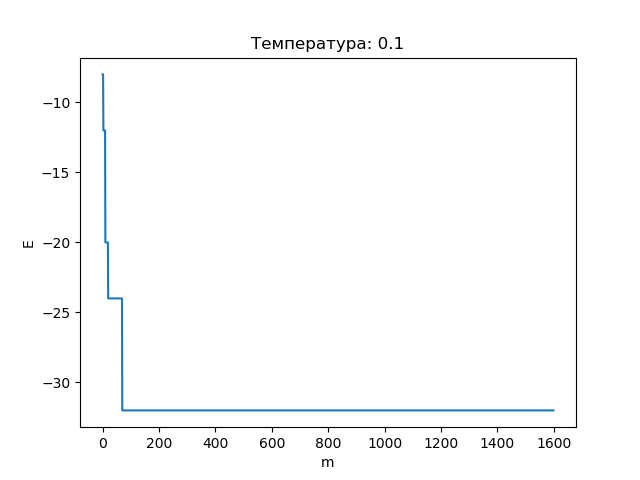
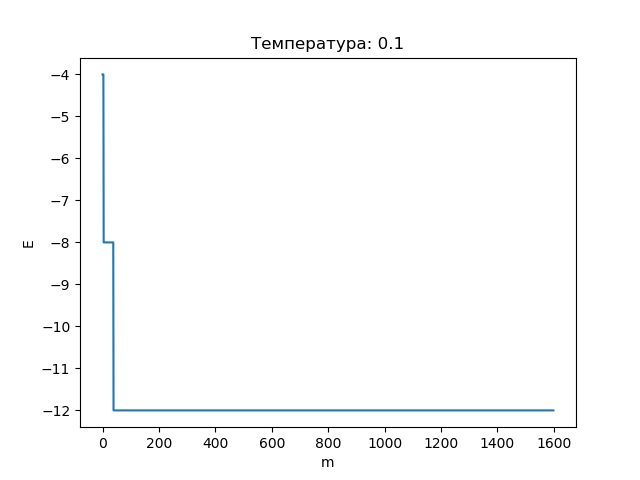
Try lab3 model

diff --git a/model/lab3/lab3.py b/model/lab3/lab3.py
@@ -1,0 +1,168 @@
+import random
+import statistics
+import math
+import matplotlib.pyplot as plt
+import os
+
+MATRIX_LENGTH = 4  # L - количество спинов вдоль одной сторо-ны квадрата
+J = -1  # J - тип взаимодействия, определяющий основные характеристики системы.
+SWAP_COUNT = 10000000 * MATRIX_LENGTH * MATRIX_LENGTH  # m - выбор спина m раз
+T = 0.1
+
+
+def save(name='', fmt='png'):
+    pwd = os.getcwd()
+    iPath = './pictures/'
+    if not os.path.exists(iPath):
+        os.mkdir(iPath)
+    os.chdir(iPath)
+    plt.savefig('{}.{}'.format(name, fmt), fmt='png')
+    os.chdir(pwd)
+
+
+def init_matrix(matrix_length=MATRIX_LENGTH):
+    """
+    Генерирует случайную матрицу.
+
+    :param int matrix_length: Длина матрицы
+    :return: Возвращает сгенерированную матрицу.
+    :rtype: list[list[int]]
+    """
+    new_matrix = []
+    values = [1, -1]
+    for height in range(0, matrix_length):
+        inner_matrix = []
+        for width in range(0, matrix_length):
+            inner_matrix.append(random.choice(values))
+        new_matrix.append(inner_matrix)
+
+    print_matrix(new_matrix)
+    return new_matrix
+
+
+def print_matrix(matrix):
+    """
+    Выводит матрицу в консоль.
+
+    :param list[list[int]] matrix: Матрица.
+    """
+    string = ""
+    for height in range(0, len(matrix)):
+        for width in range(0, len(matrix[0])):
+            string += f"{width}{height} {matrix[width][height]}\t"
+        string += "\n"
+
+    print(string)
+
+
+def calculate_energy(matrix):
+    """
+    Расчитывает энергию матрицы.
+
+    :param list[list[int]] matrix: Матрица.
+    :return: Возвращает энергию матрицы.
+    :rtype: int
+    """
+    e = 0
+    matrix_length = len(matrix)
+    for height in range(0, matrix_length):
+        for width in range(0, len(matrix[0])):
+            right = width + 1 if width + 1 < matrix_length else 0
+            down = height + 1 if height + 1 < matrix_length else 0
+            e += -J * matrix[width][height] * matrix[right][height]
+            e += -J * matrix[width][height] * matrix[width][down]
+    return e
+
+
+def calculate_energy_fast(e_old, width, height, matrix):
+    """
+    Расчитывает энергию матрицы.
+
+    :param list[list[int]] matrix: Матрица.
+    :return: Возвращает энергию матрицы.
+    :rtype: int
+    """
+    matrix_length = len(matrix)
+    right = width + 1 if width + 1 < matrix_length else 0
+    left = width - 1 if width - 1 > 0 else matrix_length - 1
+    down = height + 1 if height + 1 < matrix_length else 0
+    up = height - 1 if height - 1 > 0 else matrix_length - 1
+    s_j = matrix[right][height] + matrix[left][height] + matrix[width][down] + matrix[width][up]
+    return e_old + (2 * -J * matrix[width][height] * s_j)
+
+
+def find_min_conf(matrix_length=MATRIX_LENGTH):
+    """
+    Находит минимум энергии перебром всех конфигураций.
+
+    :param int matrix_length: Длина матрицы
+    """
+    # Перебор
+    matrix = []
+    for height in range(0, matrix_length):
+        inner_matrix = []
+        for width in range(0, matrix_length):
+            inner_matrix.append(-1)
+        matrix.append(inner_matrix)
+
+    min_e = calculate_energy(matrix)
+    while matrix[matrix_length-1][matrix_length-1] < 2:
+        val = calculate_energy(matrix)
+        if min_e > val:
+            min_e = val
+            # print_matrix(matrix)
+        matrix[0][0] += 2
+        for height in range(0, matrix_length):
+            for width in range(0, matrix_length):
+                if matrix[width][height] > 1:
+                    next_height = height + 1 if width + 1 >= matrix_length else height
+                    next_width = width + 1 if next_height == height else 0
+                    if next_height < matrix_length:
+                        matrix[width][height] = -1
+                        matrix[next_width][next_height] += 2
+    print(f"Min brut: {min_e}")
+
+
+def z3(matrix):
+    """
+    Расчёт энергии методом метрополиса. 2 Лабораторная работа.
+
+    :param list[list[int]] matrix: Матрица.
+    """
+    e = calculate_energy(matrix)
+    avr_e = []
+    for i in range(0, SWAP_COUNT):
+        old_e = e
+
+        width = random.randint(0, len(matrix)-1)
+        height = random.randint(0, len(matrix)-1)
+        matrix[width][height] = -matrix[width][height]
+
+        e = calculate_energy_fast(old_e, width, height, matrix)
+        print(f"{e}:{calculate_energy(matrix)}")
+
+        p = math.exp((e-old_e)/T)
+        p1 = random.random()
+        if p1 < p:
+            matrix[width][height] = -matrix[width][height]
+            e = old_e
+        avr_e.append(e)
+
+    fig1 = plt.figure()
+    plt.title(f'Температура: {T}')
+    plt.ylabel('E')
+    plt.xlabel('m')
+    plt.plot(avr_e)
+    save(f"lab2({T})", fmt='png')
+    plt.show()
+
+    print(f"Min metro: {e}")
+    print(f"Avg metro: {statistics.mean(avr_e)}")
+
+
+print(f"T={T}")
+matrix_S = init_matrix()
+find_min_conf()
+z3(matrix_S)
+
+

diff --git a/model/lab3/README.md b/model/lab3/README.md
@@ -1,0 +1,3 @@
+## **Лабораторная работа 3:**
+
+
